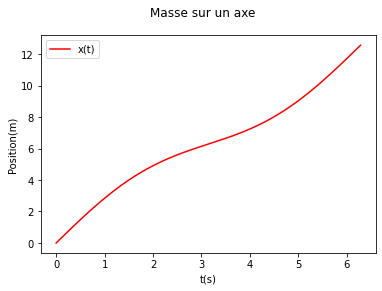
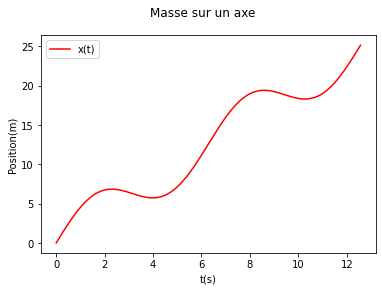
Mise à jour du site

diff --git a/searchindex.js b/searchindex.js
@@ -1,1 +1,1 @@
-Search.setIndex({docnames:["intro_python","notebook/complement","notebook/exo_general","notebook/exo_polyfit","notebook/exo_science","notebook/exo_science_2"],envversion:{"sphinx.domains.c":2,"sphinx.domains.changeset":1,"sphinx.domains.citation":1,"sphinx.domains.cpp":3,"sphinx.domains.index":1,"sphinx.domains.javascript":2,"sphinx.domains.math":2,"sphinx.domains.python":2,"sphinx.domains.rst":2,"sphinx.domains.std":2,"sphinx.ext.intersphinx":1,sphinx:56},filenames:["intro_python.md","notebook/complement.md","notebook/exo_general.md","notebook/exo_polyfit.md","notebook/exo_science.md","notebook/exo_science_2.md"],objects:{},objnames:{},objtypes:{},terms:{"001144379410995":5,"05293999024471903":3,"085e":5,"0x7f1137512eb0":[],"0x7f114441a1f0":[],"0x7f3701688100":[],"0x7f681ff33eb0":4,"0x7f68208df220":4,"0x7f775a1efeb0":[],"0x7f77680891f0":[],"0x7f87a7f1be20":[],"0x7f87a88cc370":[],"0x7f8a1bedceb0":[],"0x7f8a1c88c1f0":[],"0x7fa57b695d60":[],"0x7fa58859d1f0":[],"0x7fbd0788fd00":[],"0x7fbd0823c370":[],"0x7fcc6053ce50":[],"0x7fcc60ee91f0":[],"0x7fd43589d7c0":[],"0x7fd4362441f0":[],"0x7fed7c2fdee0":[],"0x7fed7ccab3a0":[],"0x7ff4d0997e80":[],"0x7ff4d134f1f0":[],"100":[2,3,4,5],"1000":5,"1000000":5,"100k":5,"1023":5,"10700":5,"10850":5,"10ml":3,"11000":5,"127":2,"128":3,"139855247404751":3,"150":3,"164":3,"1741":1,"1742":1,"1743":1,"1744":1,"1745":1,"196":3,"1e5":5,"1e6":5,"200":3,"2000":[2,4],"208":5,"2480044091710756e":3,"250":3,"254":2,"255":5,"267":3,"271":1,"272":1,"273":1,"274":1,"275":[1,3],"27996e413080":[],"294":3,"300":3,"3315935386808m":5,"345m":5,"346":5,"350":3,"350m":5,"354":3,"396":3,"397":1,"398":1,"399":1,"400":[1,3],"401":1,"428":3,"450":3,"481":3,"497":3,"500":3,"5050":2,"50e":3,"5177d4a278f0":1,"558":3,"582":3,"5mg":3,"640nm":3,"649nm":3,"665":3,"66e":3,"70kg":3,"7337275410079":[],"740":[],"741":3,"765":3,"8048891cc3a0":1,"833":3,"922222222222":3,"976666666666668e":3,"985208000000001e":5,"9976666666666668":3,"9985":5,"\u00e9cart":[3,5],"\u00e9crire":[2,4,5],"\u00e9crit":1,"\u00e9critur":1,"\u00e9gal":3,"\u00e9l\u00e9ment":[1,2],"\u00e9nergi":4,"\u00e9nonc\u00e9":[3,5],"\u00e9quation":[3,5],"\u00e9quival":5,"\u00e9t\u00e9":[1,5],"\u00e9tait":5,"\u00e9talon":3,"\u00e9tant":[3,4],"\u00e9tude":[1,5],"\u00e9tudi":[3,5],"\u00e9tudi\u00e9":5,"\u00e9tudier":5,"\u00e9valuer":3,"\u00e9viter":1,"\u00e9volut":4,"\u00eatre":[2,3,4,5],"acc\u00e8d":[],"adapt\u00e9":3,"affich\u00e9":2,"ajust\u00e9":[],"al\u00e9atoir":[],"align\u00e9":3,"am\u00e8n":3,"annonc\u00e9":5,"appel\u00e9":1,"apr\u00e8":5,"associ\u00e9":[3,5],"assur\u00e9":5,"attach\u00e9":4,"biblioth\u00e8qu":[0,1,3,4,5],"capacit\u00e9":[3,5],"caract\u00e8r":[1,4,5],"caract\u00e9ristiqu":3,"carat\u00e9ristiqu":3,"carr\u00e9":[1,2,5],"cin\u00e9tiqu":4,"class":[],"coh\u00e9renc":3,"coh\u00e9rent":[3,5],"color\u00e9":3,"compl\u00e8t":[3,5],"compl\u00e9ment":[1,5],"compliqu\u00e9":1,"concat\u00e8n":2,"concat\u00e9n":5,"conna\u00eetr":[],"conseill\u00e9":5,"consid\u00e9r\u00e9":3,"cr\u00e9\u00e9":[2,5],"cr\u00e9ation":3,"cr\u00e9e":2,"cr\u00e9er":[2,3,4,5],"cr\u00e9ez":5,"d\u00e9charg":5,"d\u00e9cider":5,"d\u00e9cimal":5,"d\u00e9clench\u00e9":1,"d\u00e9comment":3,"d\u00e9conseill\u00e9":5,"d\u00e9croissant":5,"d\u00e9finit":1,"d\u00e9j\u00e0":[1,5],"d\u00e9passer":3,"d\u00e9pla\u00e7ant":4,"d\u00e9plac\u00e9":5,"d\u00e9router":1,"d\u00e9termin":5,"d\u00e9terminera":3,"degr\u00e9":[],"demand\u00e9":[1,2],"derni\u00e8r":2,"diff\u00e9rent":[3,5],"diff\u00e9rentiel":5,"dilu\u00e9":3,"dispers\u00e9":5,"distill\u00e9":3,"donn\u00e9":[2,3,4],"emp\u00eachent":1,"enl\u00e8v":5,"entra\u00een":0,"estim\u00e9":5,"ex\u00e9cut":[1,2],"exp\u00e9rimental":[],"exp\u00e9rimentaux":[],"expliqu\u00e9":5,"ferm\u00e9":1,"forc\u00e9ment":5,"fr\u00e9quemment":[],"fr\u00e9quenc":5,"g\u00e9lifi\u00e9":3,"g\u00e9rer":2,"gr\u00e2ce":5,"hypoth\u00e8s":3,"imbriqu\u00e9":1,"import":[1,3,4],"import\u00e9":5,"inf\u00e9rieur":[3,5],"ing\u00e9rer":3,"ingurgit\u00e9":3,"int":1,"int\u00e9r\u00eat":[],"interpr\u00e9teur":1,"journali\u00e8r":3,"l\u00e2ch\u00e9":4,"l\u00e9gend":[3,5],"l\u00e9gend\u00e9":5,"l\u00e9gender":[4,5],"lin\u00e9air":[],"lyc\u00e9":[],"m\u00e8re":3,"m\u00e8tre":4,"m\u00e9thode":[3,5],"m\u00eame":[1,3,5],"ma\u00eetris":[],"majorit\u00e9":1,"mani\u00e8r":[1,3],"mat\u00e9riel":4,"mesur\u00e9":[3,5],"mod\u00e8l":[],"modifi\u00e9":3,"n\u00e9cessair":2,"n\u00e9cessit":[],"n\u00e9gligeabl":3,"nomm\u00e9":5,"null":3,"op\u00e9rat":4,"op\u00e9rateur":[1,2],"op\u00e9ratoir":3,"ordonn\u00e9":[3,4],"p\u00e9riod":4,"patent\u00e9":3,"plut\u00f4t":3,"point\u00e9":1,"polyn\u00f4m":[],"pr\u00e8":5,"pr\u00e9alabl":[],"pr\u00e9c\u00e9demment":[3,5],"pr\u00e9c\u00e9dent":[3,5],"pr\u00e9ciser":2,"pr\u00e9l\u00e8ve":3,"pr\u00e9pa":[],"pr\u00e9sent":[],"pr\u00e9sent\u00e9":5,"pr\u00e9sentat":0,"pr\u00e9senter":[],"pr\u00e9voit":3,"premi\u00e8r":[2,5],"probl\u00e8m":1,"probl\u00e8matiqu":5,"programm\u00e9":5,"propos\u00e9":[3,5],"quantit\u00e9":3,"quatri\u00e8m":4,"r\u00e9affich":3,"r\u00e9alis":3,"r\u00e9alis\u00e9":[3,5],"r\u00e9cup\u00e9rat":5,"r\u00e9fl\u00e9chir":[2,3,5],"r\u00e9fl\u00e9chira":4,"r\u00e9fl\u00e9chissant":3,"r\u00e9flexion":5,"r\u00e9gime":[3,5],"r\u00e9git":5,"r\u00e9gression":[],"r\u00e9gulier":5,"r\u00e9pertoir":[2,5],"r\u00e9pondr":2,"r\u00e9sistanc":3,"r\u00e9sultat":2,"r\u00e9utilis":4,"recherch\u00e9":1,"repr\u00e9sent":[3,4,5],"return":[1,2,4,5],"s\u00e9lection":5,"s\u00e9lectionn":5,"s\u00e9lectionn\u00e9":5,"s\u00e9rie":2,"s\u00fbr":3,"signal\u00e9":1,"stock\u00e9":5,"sup\u00e9rieur":[3,5],"syst\u00e8m":1,"t\u00e9l\u00e9charg\u00e9":5,"t\u00e9l\u00e9charger":5,"t\u00e9l\u00e9chargerez":5,"th\u00e9oriqu":5,"tir\u00e9":5,"titr\u00e9":5,"tr\u00e8":1,"trac\u00e9":[3,5],"troisi\u00e8m":4,"trouv\u00e9":3,"true":5,"utilis\u00e9":[1,3],"v\u00e9rific":5,"v\u00e9rifier":[1,2,3,5],"while":[2,5],C_s:3,Les:[2,3,4,5],Une:[3,5],__call__:1,_ax:1,_base:1,_get_lin:1,_plot_arg:1,a_i:3,abciss:4,aberr:3,aberrant:5,abs:5,absciss:4,absenc:5,accept:5,access:[2,3,4,5],adapt:5,add_lin:1,additif:3,admettra:5,admiss:3,affich:[1,2,3,5],affin:3,afin:5,agit:4,ainsi:[3,5],air:5,ajout:5,ajust:3,algorithm:2,alimentair:3,allant:[],aller:5,allez:[2,4],allon:5,allur:5,alor:[1,3,5],alpha_:3,analys:[3,5],anglai:1,appel:[1,2],append:[2,5],appliqu:1,approfondir:3,arduino:5,arg:1,argument:[2,5],arrai:[1,3,5],arriv:1,arrondi:3,arrondir:3,assez:1,attendu:[1,3],attent:5,aurait:5,aussi:[1,3,5],automatiqu:4,automatis:5,autr:5,aux:[0,2,3,4,5],avant:5,avantag:3,avec:[1,3,4,5],avez:[2,4,5],avoir:[4,5],axe:4,axes:1,b43b36e465ad:1,b_max:5,b_min:5,barr:3,be7f0a92039c:[],beer:3,besoin:[4,5],biai:3,bien:[1,2,3,5],bilan:3,bin:5,bin_to_volt:5,binair:5,bleu:3,blue:3,bon:1,bonbon:3,born:5,boucl:[4,5],broadcast:1,bute:1,c859c85d5b52:1,c_0:3,c_i:3,calcul:[1,3,4,5],calculatric:3,call:1,calm:1,capacit:[3,5],car:[1,2,3],cbook:1,ceil:3,cela:[3,5],celerit:5,cell:1,centain:4,certain:[1,5],ces:[1,2,3,4,5],cet:5,cett:[1,2,3,5],chacun:2,chain:[1,5],chaqu:[2,3,5],charg:[],chemin:5,chercher:1,chiffr:[3,5],choisir:5,choisit:3,ci_adj:3,cibl:5,circuit:[3,5],circuit_rc:5,circuit_rc_auto:5,circuit_rc_decharg:5,clair:[1,2,4],clairement:5,classiqu:5,clic:5,cliquer:5,cliquez:[2,4,5],codag:2,code:1,coder:4,coeffici:[],colonn:5,color:[3,4],combien:2,comm:[2,3,5],commenc:5,commencez:2,comment:[3,5],commentair:3,commis:1,comparaison:[],complet:5,comprend:1,comprendr:[2,5],compri:2,compt:[1,3],comptez:5,concentr:3,concept:[2,3,4,5],conclus:3,condensateur:[3,5],condit:5,conform:5,connaiss:1,connaissez:1,connait:5,connu:3,conseil:[2,4],consist:5,constant:5,constitu:4,constructeur:5,conten:[3,5],contenu:[2,5],contient:5,contraint:5,corporel:3,correct:[1,5],correspond:5,corrig:[1,2],cos:4,could:1,courant:2,courb:[4,5],courram:[],croix:[2,3,4,5],ctrl:2,dan:[2,3,5],dat:5,data:[1,5],ddof:5,def:[1,2,4,5],defin:[],delimit:5,delta:5,demand:2,depui:4,des:[1,3],descript:5,dessou:[1,2,5],dessu:1,deux:[1,2,3,4,5],devez:[2,4,5],devoir:[2,5],devra:4,devrait:[1,3],devrez:5,devriez:[3,4,5],dilu:3,dimens:1,dire:3,disciplin:[],dispos:[],dissou:3,distanc:5,distribut:5,dja:3,doit:2,donc:[1,2,3,5],donn:3,donnant:[2,3,4,5],donne:5,donnees_exp:5,donnera:5,dose:3,droit:[3,5],e131:3,e_c:4,e_p:4,eau:3,ecart:5,ecrir:[2,5],effet:1,efficac:1,ell:[1,2,5],encourag:3,endroit:1,energi:4,enregistr:5,enregistrez:2,ensembl:5,ensuit:[1,2,3,5],entier:[1,2,3,5],entr:[1,2,3,5],env:1,environ:5,erreur:[2,3],errorbar:3,espac:5,essay:4,est:[1,2,3,4,5],estim:[3,5],estime_tau:5,exempl:5,exercic:[0,3,4,5],existant:1,exp:5,explic:1,expliqu:3,express:3,extens:2,fabric:3,fair:[1,2,3,4,5],fait:[1,5],faudra:3,faudrait:3,fauss:[],faut:[1,2,3,4],faux:2,fera:5,fermer:1,fichier:[2,4,5],file:1,fin:[2,5],first:1,flottant:5,foi:[2,5],fonction:[3,4,5],fonctionn:[2,5],font:[0,1],form:[2,5],formul:1,fourni:5,frac:[3,4,5],from:1,frottement:4,fur:5,gard:5,garder:[1,3,5],get_next_color:1,getdiv:2,global:3,grand:[3,5],grandeur:[3,5],graphiqu:[3,4,5],gross:1,habitud:1,harmoniqu:4,have:1,hist:5,histogramm:5,humain:3,ici:[1,2,3,4,5],identiqu:5,important:3,inc_i:3,inc_x:3,incertitud:[3,5],inclu:2,indic:[4,5],influenc:3,inform:[4,5],initial:[4,5],input:1,instruct:[1,2,4,5],interval:4,introduit:3,inutil:3,invalid:[1,5],ipython:1,jour:3,jupybook:[],jupyt:3,jusqu:3,just:5,justement:[],kwarg:1,l_0:4,label:[3,4,5],lambert:3,langag:[],laquel:2,last:1,left:[3,5],legend:[3,4,5],len:[2,5],leq:2,les:[0,2,3,4,5],lesquel:[3,5],leur:5,lib:1,libr:[3,5],librair:5,lien:5,lieu:5,lign:1,limitera:5,line2d:1,line:1,linestyl:[3,5],linspac:4,liquid:3,list:5,loadtxt:5,localis:5,logiqu:1,loi:3,longueur:[2,3,4],lorsqu:1,m_dja:3,m_max:3,mai:[3,5],mal:1,manger:3,manuel:4,marker:[3,5],mass:[3,4],matplotlib:[1,3,4,5],maxim:3,maximal:3,mean:[3,5],mesur:[3,5],micro:3,microcontrolleur:5,microsecond:5,microssec:5,mieux:5,miniconda3:1,mline:1,mode:3,modul:1,mol:3,molair:3,mond:1,montag:5,montrer:4,most:1,mouvement:4,moyen:5,moyenn:[3,5],must:1,n_max:3,name:[],nameerror:[],navigateur:5,ndim:1,nombr:[2,3,5],non:[2,3,5],normal:5,normalize_kwarg:1,notebook:3,nou:5,nouveau:2,nouvel:1,nul:2,numpi:[1,3,4],observ:[4,5],observez:2,obstacl:5,obtenez:2,obtenir:[3,4,5],obtenu:5,obtient:3,officiel:1,ohm:3,omega:5,omega_0:4,ond:3,onglet:2,ont:[1,5],operand:1,option:[3,5],ordinateur:5,ordr:[3,5],organis:[4,5],origin:3,oscillateur:4,oubli:1,oublier:3,oubliez:[4,5],ouvr:5,ouvrir:[2,5],over:5,packag:1,par:[1,2,4,5],parc:1,parcourir:5,parcourt:5,parcouru:2,parl:[],part:3,parti:[1,2,3,4,5],particuli:1,partir:5,pas:[1,3,4,5],pass:[3,5],passag:3,passant:[],penser:1,pensez:[1,4,5],pent:[],permet:3,permett:[4,5],permettront:1,permi:5,peu:[1,5],peut:[1,2,3,5],plein:4,plot:[1,3,4,5],plt:[1,3,4,5],plu:[1,3,5],plusieur:[3,5],point:[1,3,4,5],polyfit:3,posit:4,possibl:3,potentiel:4,pour:[1,2,3,4,5],pourquoi:[1,2],pourra:5,pourrez:4,pouvez:5,pow:1,premier:[2,4],prenant:4,prend:[2,5],prendr:5,prendra:[4,5],prenez:1,prennent:2,prepa:1,pri:5,print:[1,2,3,5],produit:1,programm:[1,5],propag:5,propos:2,propr:2,pui:[2,3,5],puisqu:5,puiss:5,puissanc:[1,3],pyplot:[1,3,4,5],python3:1,python:[3,5],pyzo:[2,5],qualit:3,quand:1,quatr:4,que:[1,2,3,4,5],quelconqu:[],quell:5,quelqu:[2,4,5],question:2,qui:[0,1,2,3,4,5],raideur:4,rais:1,raisonnabl:1,rang:2,rappel:[3,5],rapport:3,recent:1,red:[3,4],regroup:[],relat:3,relatif:5,relativ:3,reli:5,remarqu:5,rend:[1,3],renverra:2,renvoi:[1,2,5],renvoient:2,renvoir:2,renvoy:1,reprend:5,ressort:4,retour:[1,2,5],retrouv:2,rice:5,right:[3,5],roug:4,sachant:5,saisi:3,sait:5,same:1,san:[3,4,5],sauf:[1,3],savoir:1,scalei:1,scalex:1,scientifiqu:[0,1,5],script:[1,4,5],second:[2,3,4],select:5,self:1,sera:[2,5],seront:[1,3,4],servant:5,set_xlabel:[3,4,5],set_ylabel:[3,4,5],seul:[2,4,5],sf6:5,shape:1,show:[3,5],sigma:5,signal:[1,4],signifi:[],significatif:[3,5],simpl:1,sin:4,site:1,skiprow:5,soin:5,soit:[2,3,5],solut:[3,5],somm:2,somme_carr:2,somme_k:2,sommer:1,son:[1,2,5],sont:[1,2,3,4,5],sort:3,sou:[2,5],sourc:3,souvent:[1,4],sqrt:[1,3,4],statistiqu:5,std:5,stock:2,stocker:5,str:[1,3,5],subplot:[1,3,4,5],sucr:3,suffisam:4,suit:[0,2],suivant:[2,3,4,5],suivr:4,suppos:4,supprim:3,suptitl:[3,4,5],sur:[0,1,2,3,4,5],surtout:1,syntax:1,syntaxerror:1,t_i:5,t_m:5,t_moi:5,t_sel:5,tableau:5,taill:[1,5],tau:[3,5],tau_adj:3,tau_m:5,tau_u:5,tel:[2,3],temp:[3,4,5],temporel:4,tenir:3,tension:5,test:5,tester:[1,2,3],thi:1,tient:3,time:3,tirag:[],titr:5,titrer:4,togeth:1,tou:[2,5],toujour:[4,5],tout:[1,2,3,5],tps:5,traceback:1,tracer:[3,4,5],trait:4,traitera:5,transform:5,transformera:5,transmettr:5,travail:5,trop:1,trouvent:1,trouver:[3,5],trouverez:[2,5],tube:3,tup:1,type:[1,2,5],typeerror:1,u_0:5,u_c:5,u_i:3,u_max:5,u_min:5,u_sel:5,ucb:5,uci:3,une:[3,4,5],uniform:5,uniqu:3,unpack:5,unsupport:1,usag:5,utau:3,util:[1,5],utilis:[1,4],utilisera:[2,3],utiliserau:[],utilisez:[4,5],v_1:3,v_2:3,v_f:3,v_m:4,v_t:3,val:5,valabl:4,valeur:[1,2,3,5],valueerror:1,variabl:[3,5],variat:4,varier:5,vecteur:[1,3,5],vectorialis:[3,4],vectoriel:4,veillez:5,ver:1,verbeux:1,vert:5,veuill:[],veut:[3,5],vide:4,visuel:[3,5],vitess:4,vitesse_son_2:5,vmt:4,voici:[0,1,4],voir:4,voit:[],vol:5,volt:5,volum:3,vont:1,vos:[4,5],votr:[1,2,4,5],vou:[1,2,3,4,5],vrai:2,vraisemblabl:1,x_0:4,x_carr:1,x_i:[],x_m:4,xerr:3,xmt:4,y_adj:[],y_i:[],yerr:3,yield:1},titles:["El\u00e9ments de bases pour programmer en Python","<span class=\"section-number\">5. </span>Comprendre ses erreurs","<span class=\"section-number\">1. </span>S\u2019entra\u00eener.","<span class=\"section-number\">3. </span>S\u2019entra\u00eener (R\u00e9gression lin\u00e9aire)","<span class=\"section-number\">2. </span>S\u2019entra\u00eener.","<span class=\"section-number\">4. </span>S\u2019entra\u00eener (Import et tirages al\u00e9atoires)"],titleterms:{"ajust\u00e9":3,"al\u00e9atoir":5,"c\u00e9l\u00e9rit\u00e9":5,"d\u00e9termin":3,"donn\u00e9":5,"el\u00e9ment":0,"entra\u00een":[2,3,4,5],"exp\u00e9rienc":5,"exp\u00e9rimental":5,"import":5,"lin\u00e9air":3,"m\u00eame":2,"mod\u00e8l":3,"parenth\u00e8s":1,"r\u00e9gression":3,"trac\u00e9":4,Les:1,Pas:1,absorb:3,analys:2,base:0,basiqu:1,boucl:2,cas:1,choix:2,code:2,coder:2,comprendr:1,dan:1,des:[2,4,5],diviseur:2,dosag:3,erreur:1,etud:5,exempl:[1,3],exercic:2,fonction:[1,2],les:1,list:2,mai:1,manipul:4,messag:1,multipl:5,numpi:5,par:3,polyfit:[],pour:0,programm:0,python:[0,1],random:5,ses:1,simpl:[2,3,4],soi:2,syntax:[],tirag:5,ultrason:5,une:[1,2],utilis:[2,3,5],vecteur:4}})
+Search.setIndex({docnames:["intro_python","notebook/complement","notebook/exo_general","notebook/exo_polyfit","notebook/exo_science","notebook/exo_science_2"],envversion:{"sphinx.domains.c":2,"sphinx.domains.changeset":1,"sphinx.domains.citation":1,"sphinx.domains.cpp":3,"sphinx.domains.index":1,"sphinx.domains.javascript":2,"sphinx.domains.math":2,"sphinx.domains.python":2,"sphinx.domains.rst":2,"sphinx.domains.std":2,"sphinx.ext.intersphinx":1,sphinx:56},filenames:["intro_python.md","notebook/complement.md","notebook/exo_general.md","notebook/exo_polyfit.md","notebook/exo_science.md","notebook/exo_science_2.md"],objects:{},objnames:{},objtypes:{},terms:{"001144379410995":5,"05293999024471903":3,"085e":5,"0x7f1137512eb0":[],"0x7f114441a1f0":[],"0x7f3701688100":[],"0x7f681ff33eb0":[],"0x7f68208df220":[],"0x7f775a1efeb0":[],"0x7f77680891f0":[],"0x7f845da4e910":4,"0x7f845e3f83d0":4,"0x7f87a7f1be20":[],"0x7f87a88cc370":[],"0x7f8a1bedceb0":[],"0x7f8a1c88c1f0":[],"0x7fa57b695d60":[],"0x7fa58859d1f0":[],"0x7fbd0788fd00":[],"0x7fbd0823c370":[],"0x7fcc6053ce50":[],"0x7fcc60ee91f0":[],"0x7fd43589d7c0":[],"0x7fd4362441f0":[],"0x7fed7c2fdee0":[],"0x7fed7ccab3a0":[],"0x7ff4d0997e80":[],"0x7ff4d134f1f0":[],"100":[2,3,4,5],"1000":5,"1000000":5,"100k":5,"1023":5,"10700":5,"10850":5,"10ml":3,"11000":5,"127":2,"128":3,"139855247404751":3,"150":3,"164":3,"1741":1,"1742":1,"1743":1,"1744":1,"1745":1,"196":3,"1e5":5,"1e6":5,"200":3,"2000":[2,4],"208":5,"2480044091710756e":3,"250":3,"254":2,"255":5,"267":3,"271":1,"272":1,"273":1,"274":1,"275":[1,3],"27996e413080":[],"294":3,"300":3,"3315935386808m":5,"345m":5,"346":5,"350":3,"350m":5,"354":3,"396":3,"397":1,"398":1,"399":1,"400":[1,3],"401":1,"428":3,"450":3,"481":3,"497":3,"500":3,"5050":2,"50e":3,"5177d4a278f0":1,"558":3,"582":3,"5mg":3,"640nm":3,"649nm":3,"665":3,"66e":3,"70kg":3,"7337275410079":[],"740":[],"741":3,"765":3,"8048891cc3a0":1,"833":3,"922222222222":3,"976666666666668e":3,"985208000000001e":5,"9976666666666668":3,"9985":5,"\u00e9cart":[3,5],"\u00e9crire":[2,4,5],"\u00e9crit":1,"\u00e9critur":1,"\u00e9gal":3,"\u00e9l\u00e9ment":[1,2],"\u00e9nergi":4,"\u00e9nonc\u00e9":[3,5],"\u00e9quation":[3,5],"\u00e9quival":5,"\u00e9t\u00e9":[1,5],"\u00e9tait":5,"\u00e9talon":3,"\u00e9tant":[3,4],"\u00e9tude":[1,5],"\u00e9tudi":[3,5],"\u00e9tudi\u00e9":5,"\u00e9tudier":5,"\u00e9valuer":3,"\u00e9viter":1,"\u00e9volut":4,"\u00eatre":[2,3,4,5],"acc\u00e8d":[],"adapt\u00e9":3,"affich\u00e9":2,"ajust\u00e9":[],"al\u00e9atoir":[],"align\u00e9":3,"am\u00e8n":3,"annonc\u00e9":5,"appel\u00e9":1,"apr\u00e8":5,"associ\u00e9":[3,5],"assur\u00e9":5,"attach\u00e9":4,"biblioth\u00e8qu":[0,1,3,4,5],"capacit\u00e9":[3,5],"caract\u00e8r":[1,4,5],"caract\u00e9ristiqu":3,"carat\u00e9ristiqu":3,"carr\u00e9":[1,2,5],"cin\u00e9tiqu":4,"class":[],"coh\u00e9renc":3,"coh\u00e9rent":[3,5],"color\u00e9":3,"compl\u00e8t":[3,5],"compl\u00e9ment":[1,5],"compliqu\u00e9":1,"concat\u00e8n":2,"concat\u00e9n":5,"conna\u00eetr":[],"conseill\u00e9":5,"consid\u00e9r\u00e9":3,"cr\u00e9\u00e9":[2,5],"cr\u00e9ation":3,"cr\u00e9e":2,"cr\u00e9er":[2,3,4,5],"cr\u00e9ez":5,"d\u00e9charg":5,"d\u00e9cider":5,"d\u00e9cimal":5,"d\u00e9clench\u00e9":1,"d\u00e9comment":3,"d\u00e9conseill\u00e9":5,"d\u00e9croissant":5,"d\u00e9finit":1,"d\u00e9j\u00e0":[1,5],"d\u00e9passer":3,"d\u00e9pla\u00e7ant":4,"d\u00e9plac\u00e9":5,"d\u00e9router":1,"d\u00e9termin":5,"d\u00e9terminera":3,"degr\u00e9":[],"demand\u00e9":[1,2],"derni\u00e8r":2,"diff\u00e9rent":[3,5],"diff\u00e9rentiel":5,"dilu\u00e9":3,"dispers\u00e9":5,"distill\u00e9":3,"donn\u00e9":[2,3,4],"emp\u00eachent":1,"enl\u00e8v":5,"entra\u00een":0,"estim\u00e9":5,"ex\u00e9cut":[1,2],"exp\u00e9rimental":[],"exp\u00e9rimentaux":[],"expliqu\u00e9":5,"ferm\u00e9":1,"forc\u00e9ment":5,"fr\u00e9quemment":[],"fr\u00e9quenc":5,"g\u00e9lifi\u00e9":3,"g\u00e9rer":2,"gr\u00e2ce":5,"hypoth\u00e8s":3,"imbriqu\u00e9":1,"import":[1,3,4],"import\u00e9":5,"inf\u00e9rieur":[3,5],"ing\u00e9rer":3,"ingurgit\u00e9":3,"int":1,"int\u00e9r\u00eat":[],"interpr\u00e9teur":1,"journali\u00e8r":3,"l\u00e2ch\u00e9":4,"l\u00e9gend":[3,5],"l\u00e9gend\u00e9":5,"l\u00e9gender":[4,5],"lin\u00e9air":[],"lyc\u00e9":[],"m\u00e8re":3,"m\u00e8tre":4,"m\u00e9thode":[3,5],"m\u00eame":[1,3,5],"ma\u00eetris":[],"majorit\u00e9":1,"mani\u00e8r":[1,3],"mat\u00e9riel":4,"mesur\u00e9":[3,5],"mod\u00e8l":[],"modifi\u00e9":3,"n\u00e9cessair":2,"n\u00e9cessit":[],"n\u00e9gligeabl":3,"nomm\u00e9":5,"null":3,"op\u00e9rat":4,"op\u00e9rateur":[1,2],"op\u00e9ratoir":3,"ordonn\u00e9":[3,4],"p\u00e9riod":4,"patent\u00e9":3,"plut\u00f4t":3,"point\u00e9":1,"polyn\u00f4m":[],"pr\u00e8":5,"pr\u00e9alabl":[],"pr\u00e9c\u00e9demment":[3,5],"pr\u00e9c\u00e9dent":[3,5],"pr\u00e9ciser":2,"pr\u00e9l\u00e8ve":3,"pr\u00e9pa":[],"pr\u00e9sent":[],"pr\u00e9sent\u00e9":5,"pr\u00e9sentat":0,"pr\u00e9senter":[],"pr\u00e9voit":3,"premi\u00e8r":[2,5],"probl\u00e8m":1,"probl\u00e8matiqu":5,"programm\u00e9":5,"propos\u00e9":[3,5],"quantit\u00e9":3,"quatri\u00e8m":4,"r\u00e9affich":3,"r\u00e9alis":3,"r\u00e9alis\u00e9":[3,5],"r\u00e9cup\u00e9rat":5,"r\u00e9fl\u00e9chir":[2,3,5],"r\u00e9fl\u00e9chira":4,"r\u00e9fl\u00e9chissant":3,"r\u00e9flexion":5,"r\u00e9gime":[3,5],"r\u00e9git":5,"r\u00e9gression":[],"r\u00e9gulier":5,"r\u00e9pertoir":[2,5],"r\u00e9pondr":2,"r\u00e9sistanc":3,"r\u00e9sultat":2,"r\u00e9utilis":4,"recherch\u00e9":1,"repr\u00e9sent":[3,4,5],"return":[1,2,4,5],"s\u00e9lection":5,"s\u00e9lectionn":5,"s\u00e9lectionn\u00e9":5,"s\u00e9rie":2,"s\u00fbr":3,"signal\u00e9":1,"stock\u00e9":5,"sup\u00e9rieur":[3,5],"syst\u00e8m":1,"t\u00e9l\u00e9charg\u00e9":5,"t\u00e9l\u00e9charger":5,"t\u00e9l\u00e9chargerez":5,"th\u00e9oriqu":5,"tir\u00e9":5,"titr\u00e9":5,"tr\u00e8":1,"trac\u00e9":[3,5],"troisi\u00e8m":4,"trouv\u00e9":3,"true":5,"utilis\u00e9":[1,3],"v\u00e9rific":5,"v\u00e9rifier":[1,2,3,5],"while":[2,5],C_s:3,Les:[2,3,4,5],Une:[3,5],__call__:1,_ax:1,_base:1,_get_lin:1,_plot_arg:1,a_i:3,abciss:4,aberr:3,aberrant:5,abs:5,absciss:4,absenc:5,accept:5,access:[2,3,4,5],adapt:5,add_lin:1,additif:3,admettra:5,admiss:3,affich:[1,2,3,5],affin:3,afin:5,agit:4,ainsi:[3,5],air:5,ajout:5,ajust:3,algorithm:2,alimentair:3,allant:[],aller:5,allez:[2,4],allon:5,allur:5,alor:[1,3,5],alpha_:3,analys:[3,5],anglai:1,appel:[1,2],append:[2,5],appliqu:1,approfondir:3,arduino:5,arg:1,argument:[2,5],arrai:[1,3,5],arriv:1,arrondi:3,arrondir:3,assez:1,attendu:[1,3],attent:5,aurait:5,aussi:[1,3,5],automatiqu:4,automatis:5,autr:5,aux:[0,2,3,4,5],avant:5,avantag:3,avec:[1,3,4,5],avez:[2,4,5],avoir:[4,5],axe:4,axes:1,b43b36e465ad:1,b_max:5,b_min:5,barr:3,be7f0a92039c:[],beer:3,besoin:[4,5],biai:3,bien:[1,2,3,5],bilan:3,bin:5,bin_to_volt:5,binair:5,bleu:3,blue:3,bon:1,bonbon:3,born:5,boucl:[4,5],broadcast:1,bute:1,c859c85d5b52:1,c_0:3,c_i:3,calcul:[1,3,4,5],calculatric:3,call:1,calm:1,capacit:[3,5],car:[1,2,3],cbook:1,ceil:3,cela:[3,5],celerit:5,cell:1,centain:4,certain:[1,5],ces:[1,2,3,4,5],cet:5,cett:[1,2,3,5],chacun:2,chain:[1,5],chaqu:[2,3,5],charg:[],chemin:5,chercher:1,chiffr:[3,5],choisir:5,choisit:3,ci_adj:3,cibl:5,circuit:[3,5],circuit_rc:5,circuit_rc_auto:5,circuit_rc_decharg:5,clair:[1,2,4],clairement:5,classiqu:5,clic:5,cliquer:5,cliquez:[2,4,5],codag:2,code:1,coder:4,coeffici:[],colonn:5,color:[3,4],combien:2,comm:[2,3,5],commenc:5,commencez:2,comment:[3,5],commentair:3,commis:1,comparaison:[],complet:5,comprend:1,comprendr:[2,5],compri:2,compt:[1,3],comptez:5,concentr:3,concept:[2,3,4,5],conclus:3,condensateur:[3,5],condit:5,conform:5,connaiss:1,connaissez:1,connait:5,connu:3,conseil:[2,4],consist:5,constant:5,constitu:4,constructeur:5,conten:[3,5],contenu:[2,5],contient:5,contraint:5,corporel:3,correct:[1,5],correspond:5,corrig:[1,2],cos:4,could:1,courant:2,courb:[4,5],courram:[],croix:[2,3,4,5],ctrl:2,dan:[2,3,5],dat:5,data:[1,5],ddof:5,def:[1,2,4,5],defin:[],delimit:5,delta:5,demand:2,depui:4,des:[1,3],descript:5,dessou:[1,2,5],dessu:1,deux:[1,2,3,4,5],devez:[2,4,5],devoir:[2,5],devra:4,devrait:[1,3],devrez:5,devriez:[3,4,5],dilu:3,dimens:1,dire:3,disciplin:[],dispos:[],dissou:3,distanc:5,distribut:5,dja:3,doit:2,donc:[1,2,3,5],donn:3,donnant:[2,3,4,5],donne:5,donnees_exp:5,donnera:5,dose:3,droit:[3,5],e131:3,e_c:4,e_p:4,eau:3,ecart:5,ecrir:[2,5],effet:1,efficac:1,ell:[1,2,5],encourag:3,endroit:1,energi:4,enregistr:5,enregistrez:2,ensembl:5,ensuit:[1,2,3,5],entier:[1,2,3,5],entr:[1,2,3,5],env:1,environ:5,erreur:[2,3],errorbar:3,espac:5,essay:4,est:[1,2,3,4,5],estim:[3,5],estime_tau:5,exempl:5,exercic:[0,3,4,5],existant:1,exp:5,explic:1,expliqu:3,express:3,extens:2,fabric:3,fair:[1,2,3,4,5],fait:[1,5],faudra:3,faudrait:3,fauss:[],faut:[1,2,3,4],faux:2,fera:5,fermer:1,fichier:[2,4,5],file:1,fin:[2,5],first:1,flottant:5,foi:[2,5],fonction:[3,4,5],fonctionn:[2,5],font:[0,1],form:[2,5],formul:1,fourni:5,frac:[3,4,5],from:1,frottement:4,fur:5,gard:5,garder:[1,3,5],get_next_color:1,getdiv:2,global:3,grand:[3,5],grandeur:[3,5],graphiqu:[3,4,5],gross:1,habitud:1,harmoniqu:4,have:1,hist:5,histogramm:5,humain:3,ici:[1,2,3,4,5],identiqu:5,important:3,inc_i:3,inc_x:3,incertitud:[3,5],inclu:2,indic:[4,5],influenc:3,inform:[4,5],initial:[4,5],input:1,instruct:[1,2,4,5],interval:4,introduit:3,inutil:3,invalid:[1,5],ipython:1,jour:3,jupybook:[],jupyt:3,jusqu:3,just:5,justement:[],kwarg:1,l_0:4,label:[3,4,5],lambert:3,langag:[],laquel:2,last:1,left:[3,5],legend:[3,4,5],len:[2,5],leq:2,les:[0,2,3,4,5],lesquel:[3,5],leur:5,lib:1,libr:[3,5],librair:5,lien:5,lieu:5,lign:1,limitera:5,line2d:1,line:1,linestyl:[3,5],linspac:4,liquid:3,list:5,loadtxt:5,localis:5,logiqu:1,loi:3,longueur:[2,3,4],lorsqu:1,m_dja:3,m_max:3,mai:[3,5],mal:1,manger:3,manuel:4,marker:[3,5],mass:[3,4],matplotlib:[1,3,4,5],maxim:3,maximal:3,mean:[3,5],mesur:[3,5],micro:3,microcontrolleur:5,microsecond:5,microssec:5,mieux:5,miniconda3:1,mline:1,mode:3,modul:1,mol:3,molair:3,mond:1,montag:5,montrer:4,most:1,mouvement:4,moyen:5,moyenn:[3,5],must:1,n_max:3,name:[],nameerror:[],navigateur:5,ndim:1,nombr:[2,3,5],non:[2,3,5],normal:5,normalize_kwarg:1,notebook:3,nou:5,nouveau:2,nouvel:1,nul:2,numpi:[1,3,4],observ:[4,5],observez:2,obstacl:5,obtenez:2,obtenir:[3,4,5],obtenu:5,obtient:3,officiel:1,ohm:3,omega:5,omega_0:4,ond:3,onglet:2,ont:[1,5],operand:1,option:[3,5],ordinateur:5,ordr:[3,5],organis:[4,5],origin:3,oscillateur:4,oubli:1,oublier:3,oubliez:[4,5],ouvr:5,ouvrir:[2,5],over:5,packag:1,par:[1,2,4,5],parc:1,parcourir:5,parcourt:5,parcouru:2,parl:[],part:3,parti:[1,2,3,4,5],particuli:1,partir:5,pas:[1,3,4,5],pass:[3,5],passag:3,passant:[],penser:1,pensez:[1,4,5],pent:[],permet:3,permett:[4,5],permettront:1,permi:5,peu:[1,5],peut:[1,2,3,5],plein:4,plot:[1,3,4,5],plt:[1,3,4,5],plu:[1,3,5],plusieur:[3,5],point:[1,3,4,5],polyfit:3,posit:4,possibl:3,potentiel:4,pour:[1,2,3,4,5],pourquoi:[1,2],pourra:5,pourrez:4,pouvez:5,pow:1,premier:[2,4],prenant:4,prend:[2,5],prendr:5,prendra:[4,5],prenez:1,prennent:2,prepa:1,pri:5,print:[1,2,3,5],produit:1,programm:[1,5],propag:5,propos:2,propr:2,pui:[2,3,5],puisqu:5,puiss:5,puissanc:[1,3],pyplot:[1,3,4,5],python3:1,python:[3,5],pyzo:[2,5],qualit:3,quand:1,quatr:4,que:[1,2,3,4,5],quelconqu:[],quell:5,quelqu:[2,4,5],question:2,qui:[0,1,2,3,4,5],raideur:4,rais:1,raisonnabl:1,rang:2,rappel:[3,5],rapport:3,recent:1,red:[3,4],regroup:[],relat:3,relatif:5,relativ:3,reli:5,remarqu:5,rend:[1,3],renverra:2,renvoi:[1,2,5],renvoient:2,renvoir:2,renvoy:1,reprend:5,ressort:4,retour:[1,2,5],retrouv:2,rice:5,right:[3,5],roug:4,sachant:5,saisi:3,sait:5,same:1,san:[3,4,5],sauf:[1,3],savoir:1,scalei:1,scalex:1,scientifiqu:[0,1,5],script:[1,4,5],second:[2,3,4],select:5,self:1,sera:[2,5],seront:[1,3,4],servant:5,set_xlabel:[3,4,5],set_ylabel:[3,4,5],seul:[2,4,5],sf6:5,shape:1,show:[3,5],sigma:5,signal:[1,4],signifi:[],significatif:[3,5],simpl:1,sin:4,site:1,skiprow:5,soin:5,soit:[2,3,5],solut:[3,5],somm:2,somme_carr:2,somme_k:2,sommer:1,son:[1,2,5],sont:[1,2,3,4,5],sort:3,sou:[2,5],sourc:3,souvent:[1,4],sqrt:[1,3,4],statistiqu:5,std:5,stock:2,stocker:5,str:[1,3,5],subplot:[1,3,4,5],sucr:3,suffisam:4,suit:[0,2],suivant:[2,3,4,5],suivr:4,suppos:4,supprim:3,suptitl:[3,4,5],sur:[0,1,2,3,4,5],surtout:1,syntax:1,syntaxerror:1,t_i:5,t_m:5,t_moi:5,t_sel:5,tableau:5,taill:[1,5],tau:[3,5],tau_adj:3,tau_m:5,tau_u:5,tel:[2,3],temp:[3,4,5],temporel:4,tenir:3,tension:5,test:5,tester:[1,2,3],thi:1,tient:3,time:3,tirag:[],titr:5,titrer:4,togeth:1,tou:[2,5],toujour:[4,5],tout:[1,2,3,5],tps:5,traceback:1,tracer:[3,4,5],trait:4,traitera:5,transform:5,transformera:5,transmettr:5,travail:5,trop:1,trouvent:1,trouver:[3,5],trouverez:[2,5],tube:3,tup:1,type:[1,2,5],typeerror:1,u_0:5,u_c:5,u_i:3,u_max:5,u_min:5,u_sel:5,ucb:5,uci:3,une:[3,4,5],uniform:5,uniqu:3,unpack:5,unsupport:1,usag:5,utau:3,util:[1,5],utilis:[1,4],utilisera:[2,3],utiliserau:[],utilisez:[4,5],v_1:3,v_2:3,v_f:3,v_m:4,v_t:3,val:5,valabl:4,valeur:[1,2,3,5],valueerror:1,variabl:[3,5],variat:4,varier:5,vecteur:[1,3,5],vectorialis:[3,4],vectoriel:4,veillez:5,ver:1,verbeux:1,vert:5,veuill:[],veut:[3,5],vide:4,visuel:[3,5],vitess:4,vitesse_son_2:5,vmt:4,voici:[0,1,4],voir:4,voit:[],vol:5,volt:5,volum:3,vont:1,vos:[4,5],votr:[1,2,4,5],vou:[1,2,3,4,5],vrai:2,vraisemblabl:1,x_0:4,x_carr:1,x_i:[],x_m:4,xerr:3,xmt:4,y_adj:[],y_i:[],yerr:3,yield:1},titles:["El\u00e9ments de bases pour programmer en Python","<span class=\"section-number\">5. </span>Comprendre ses erreurs","<span class=\"section-number\">1. </span>S\u2019entra\u00eener.","<span class=\"section-number\">3. </span>S\u2019entra\u00eener (R\u00e9gression lin\u00e9aire)","<span class=\"section-number\">2. </span>S\u2019entra\u00eener.","<span class=\"section-number\">4. </span>S\u2019entra\u00eener (Import et tirages al\u00e9atoires)"],titleterms:{"ajust\u00e9":3,"al\u00e9atoir":5,"c\u00e9l\u00e9rit\u00e9":5,"d\u00e9termin":3,"donn\u00e9":5,"el\u00e9ment":0,"entra\u00een":[2,3,4,5],"exp\u00e9rienc":5,"exp\u00e9rimental":5,"import":5,"lin\u00e9air":3,"m\u00eame":2,"mod\u00e8l":3,"parenth\u00e8s":1,"r\u00e9gression":3,"trac\u00e9":4,Les:1,Pas:1,absorb:3,analys:2,base:0,basiqu:1,boucl:2,cas:1,choix:2,code:2,coder:2,comprendr:1,dan:1,des:[2,4,5],diviseur:2,dosag:3,erreur:1,etud:5,exempl:[1,3],exercic:2,fonction:[1,2],les:1,list:2,mai:1,manipul:4,messag:1,multipl:5,numpi:5,par:3,polyfit:[],pour:0,programm:0,python:[0,1],random:5,ses:1,simpl:[2,3,4],soi:2,syntax:[],tirag:5,ultrason:5,une:[1,2],utilis:[2,3,5],vecteur:4}})

diff --git a/notebook/exo_science.html b/notebook/exo_science.html
@@ -290,9 +290,9 @@ Quelques indices pour s’organiser<div class="summary-down docutils">
 <span class="kn">import</span> <span class="nn">numpy</span> <span class="k">as</span> <span class="nn">np</span>
 
 <span class="k">def</span> <span class="nf">f</span><span class="p">(</span><span class="n">x</span><span class="p">):</span>
-  <span class="k">return</span> <span class="mi">2</span><span class="o">*</span><span class="n">x</span> <span class="o">+</span> <span class="n">np</span><span class="o">.</span><span class="n">sin</span><span class="p">(</span><span class="n">x</span><span class="p">)</span>
+  <span class="k">return</span> <span class="mi">2</span><span class="o">*</span><span class="n">x</span> <span class="o">+</span> <span class="mi">3</span> <span class="o">*</span><span class="n">np</span><span class="o">.</span><span class="n">sin</span><span class="p">(</span><span class="n">x</span><span class="p">)</span>
 
-<span class="n">x</span> <span class="o">=</span> <span class="n">np</span><span class="o">.</span><span class="n">linspace</span><span class="p">(</span><span class="mi">0</span><span class="p">,</span> <span class="mi">2</span> <span class="o">*</span> <span class="n">np</span><span class="o">.</span><span class="n">pi</span><span class="p">,</span> <span class="mi">2000</span><span class="p">)</span>
+<span class="n">x</span> <span class="o">=</span> <span class="n">np</span><span class="o">.</span><span class="n">linspace</span><span class="p">(</span><span class="mi">0</span><span class="p">,</span> <span class="mi">4</span> <span class="o">*</span> <span class="n">np</span><span class="o">.</span><span class="n">pi</span><span class="p">,</span> <span class="mi">2000</span><span class="p">)</span>
 <span class="n">y</span> <span class="o">=</span> <span class="n">f</span><span class="p">(</span><span class="n">x</span><span class="p">)</span>
 
 <span class="n">f</span><span class="p">,</span> <span class="n">ax</span> <span class="o">=</span> <span class="n">plt</span><span class="o">.</span><span class="n">subplots</span><span class="p">()</span>
@@ -308,7 +308,7 @@ Quelques indices pour s’organiser<div class="summary-down docutils">
 </div>
 </div>
 <div class="cell_output docutils container">
-<div class="output text_plain highlight-myst-ansi notranslate"><div class="highlight"><pre><span></span>&lt;matplotlib.legend.Legend at 0x7f68208df220&gt;
+<div class="output text_plain highlight-myst-ansi notranslate"><div class="highlight"><pre><span></span>&lt;matplotlib.legend.Legend at 0x7f845e3f83d0&gt;
 </pre></div>
 </div>
 <img alt="../_images/exo_science_2_1.png" src="../_images/exo_science_2_1.png" />
@@ -408,7 +408,7 @@ x_M(t) = (X_0 - l_0) \cos (\omega_0 t) + l_0
 </div>
 </div>
 <div class="cell_output docutils container">
-<div class="output text_plain highlight-myst-ansi notranslate"><div class="highlight"><pre><span></span>&lt;matplotlib.legend.Legend at 0x7f681ff33eb0&gt;
+<div class="output text_plain highlight-myst-ansi notranslate"><div class="highlight"><pre><span></span>&lt;matplotlib.legend.Legend at 0x7f845da4e910&gt;
 </pre></div>
 </div>
 <img alt="../_images/exo_science_4_1.png" src="../_images/exo_science_4_1.png" />

diff --git a/_sources/notebook/exo_science.md b/_sources/notebook/exo_science.md
@@ -42,9 +42,9 @@ import matplotlib.pyplot  as plt
 import numpy as np
 
 def f(x):
-  return 2*x + np.sin(x)
+  return 2*x + 3 *np.sin(x)
 
-x = np.linspace(0, 2 * np.pi, 2000)
+x = np.linspace(0, 4 * np.pi, 2000)
 y = f(x)
 
 f, ax = plt.subplots()
